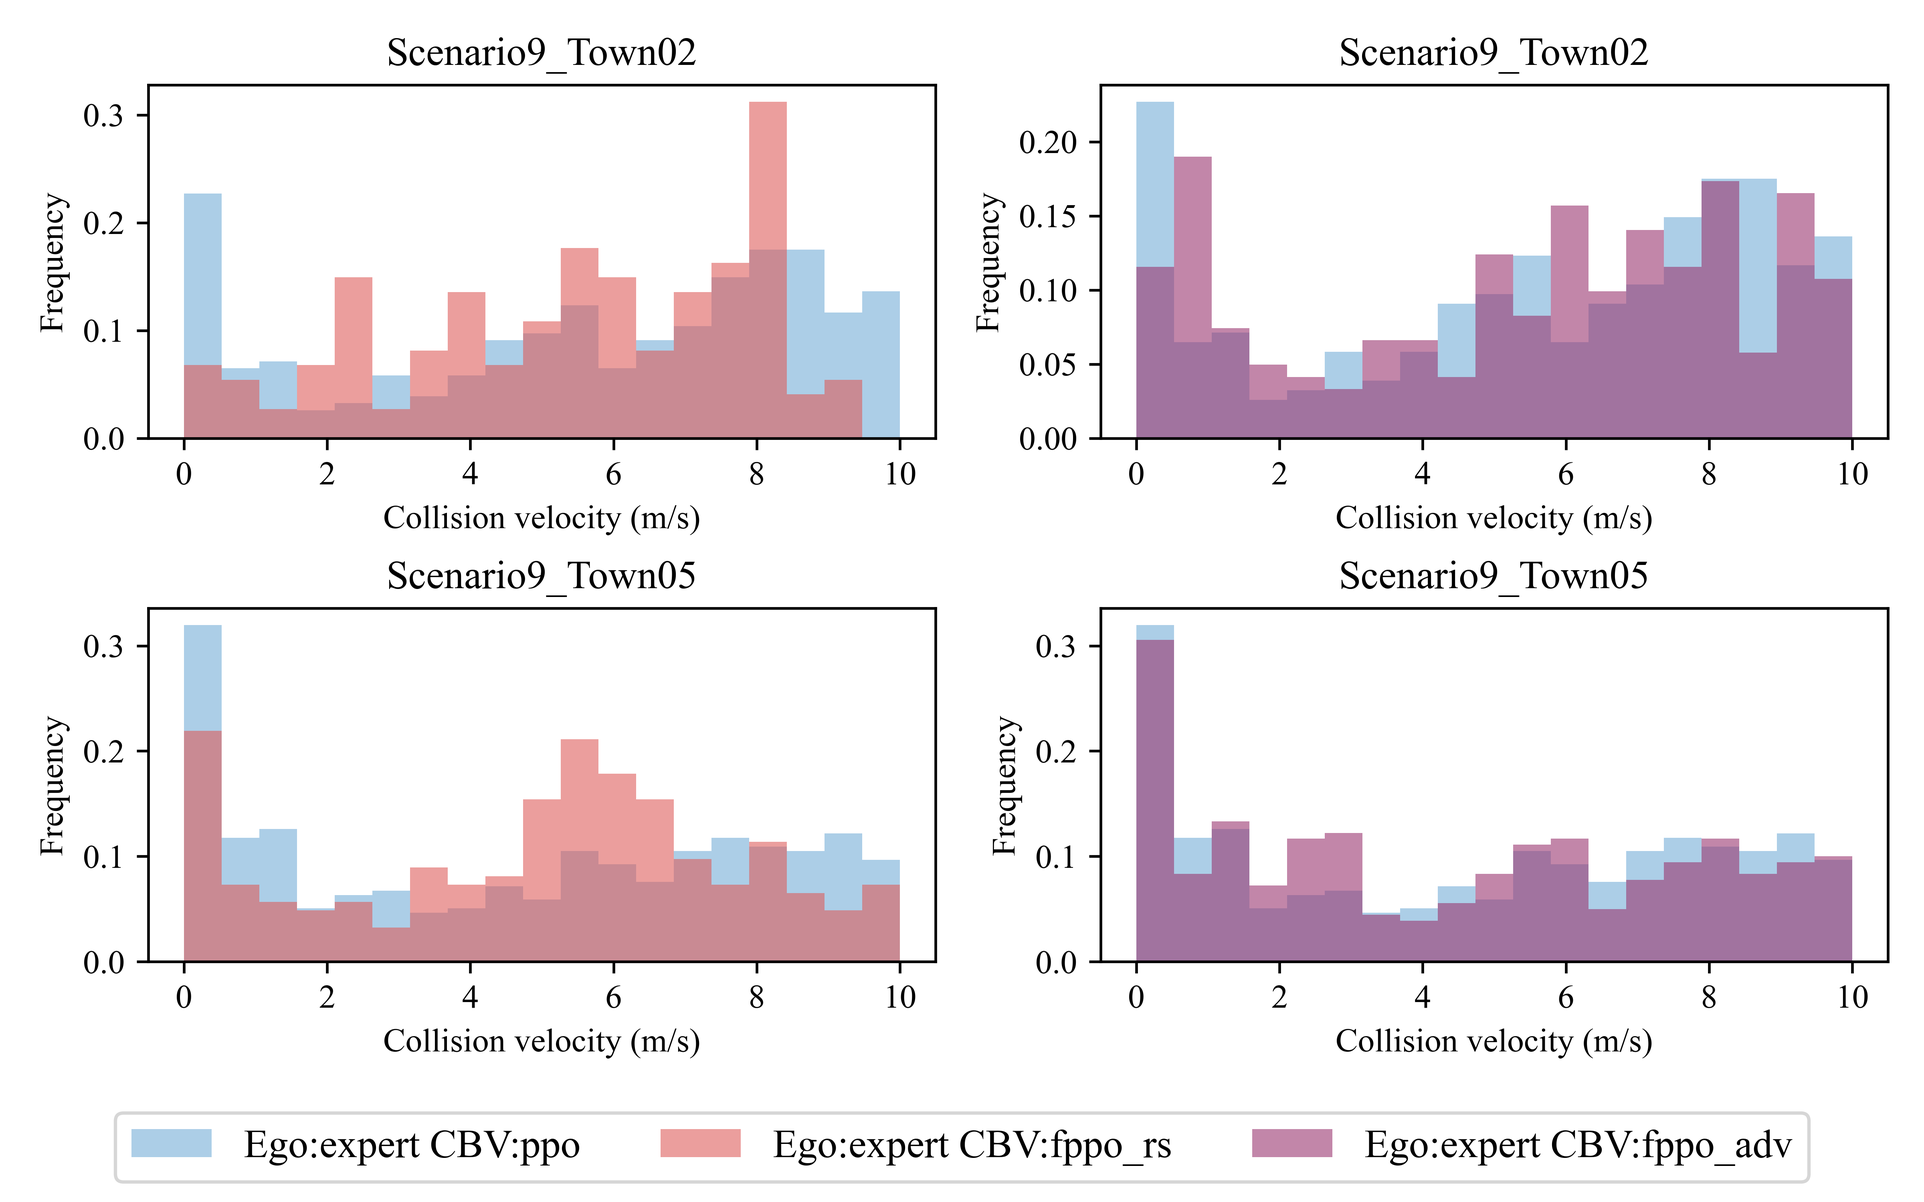
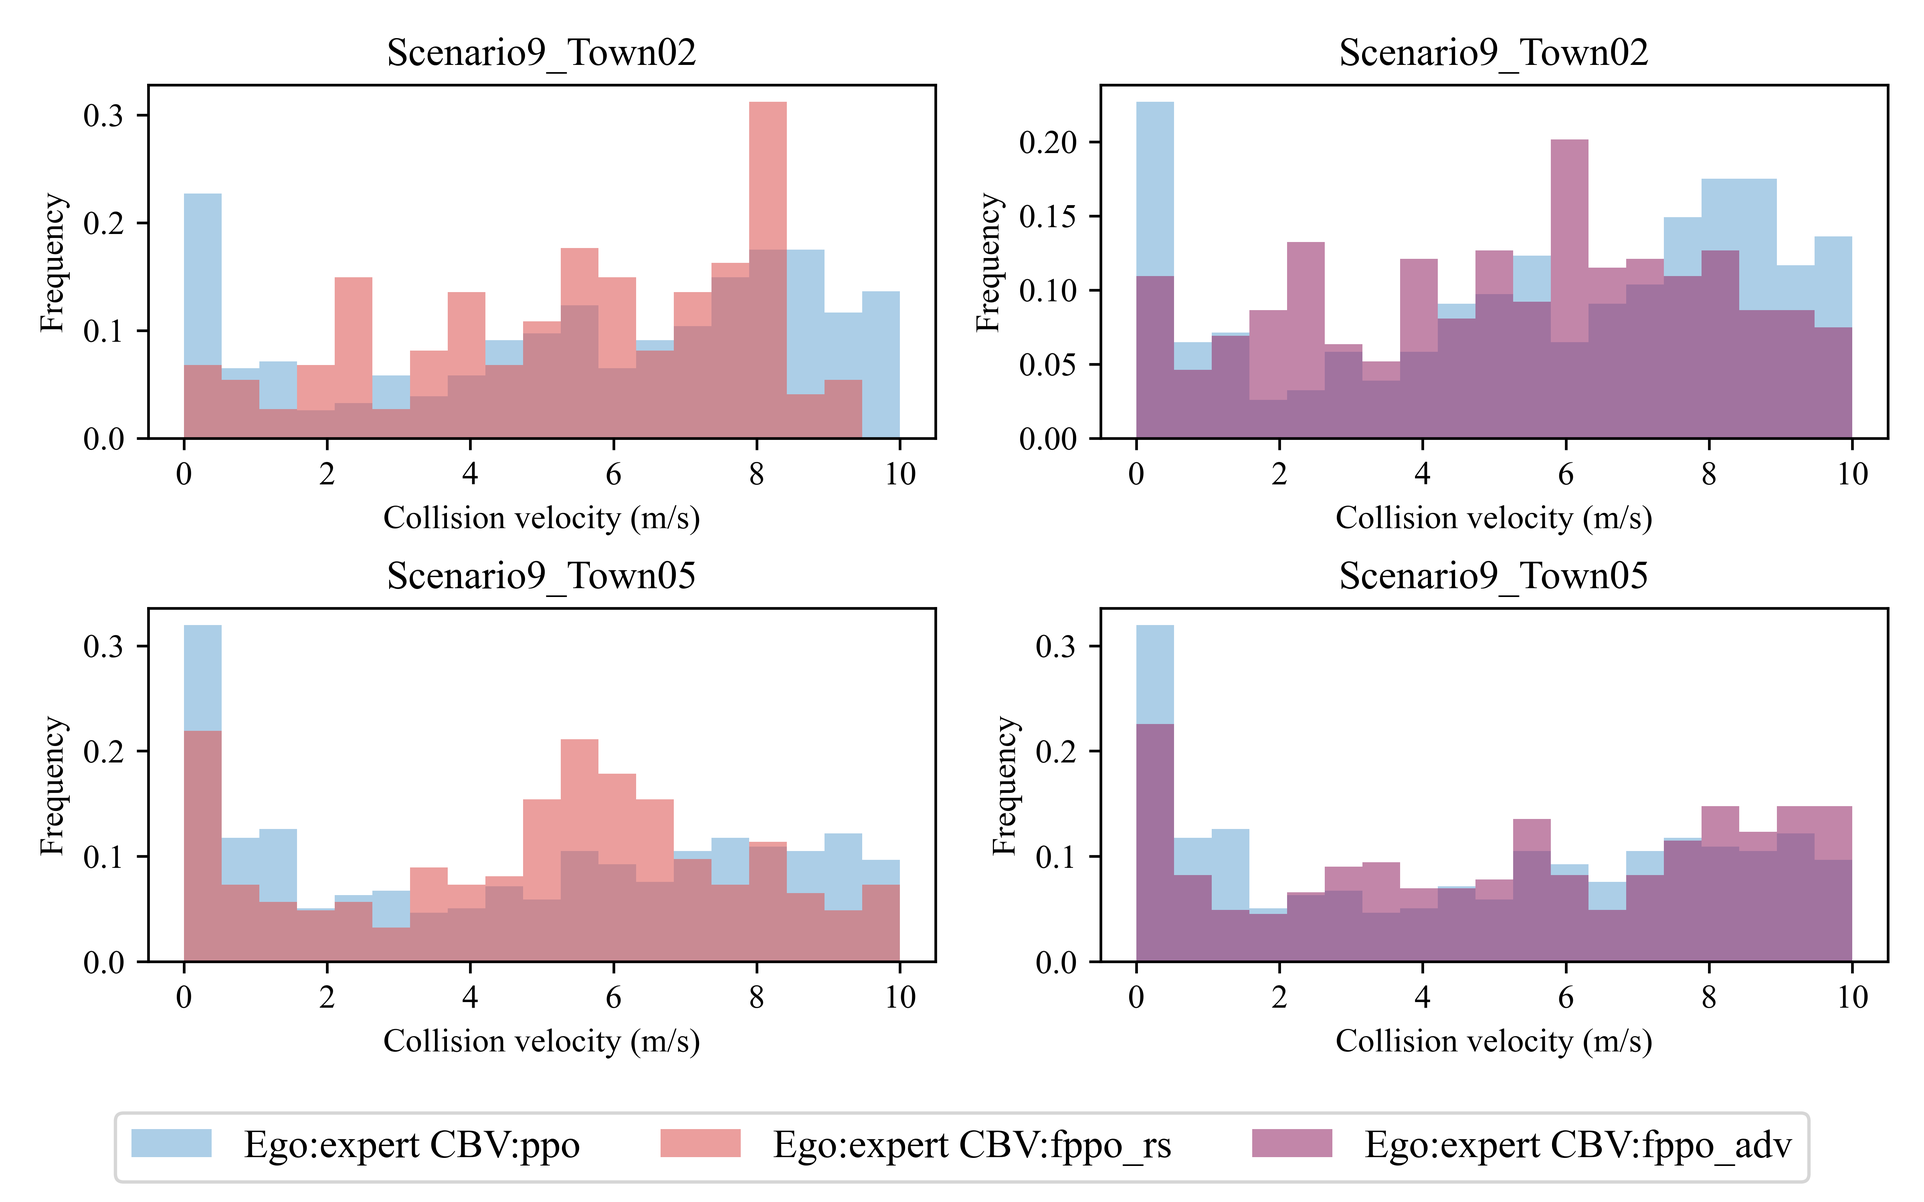
fix CarlaDataProvider random seed bug and update fppo_adv to only norm non-zero fea-advs

diff --git a/safebench/gym_carla/rollout_buffer.py b/safebench/gym_carla/rollout_buffer.py
@@ -89,11 +89,15 @@ class RolloutBuffer:
             if self.use_feasibility:
                 self.buffer_ego_actions = np.zeros((self.buffer_capacity, self.feasibility_action_dim), dtype=np.float32)
                 self.buffer_closest_CBV_flag = np.zeros(self.buffer_capacity, dtype=np.float32)
+                self.buffer_next_closest_CBV_flag = np.zeros(self.buffer_capacity, dtype=np.float32)
                 self.buffer_ego_min_dis = np.zeros(self.buffer_capacity, dtype=np.float32)
                 self.buffer_next_ego_min_dis = np.zeros(self.buffer_capacity, dtype=np.float32)
                 self.buffer_ego_obs = np.zeros((self.buffer_capacity, *self.feasibility_obs_shape), dtype=np.float32)
                 self.buffer_ego_next_obs = np.zeros((self.buffer_capacity, *self.feasibility_obs_shape), dtype=np.float32)
-                self.temp_buffer.update({'ego_actions': {}, 'ego_obs': {}, 'ego_next_obs': {}, 'closest_CBV_flag': {}, 'ego_min_dis': {}, 'next_ego_min_dis': {}})
+                self.temp_buffer.update({
+                    'ego_actions': {}, 'ego_obs': {}, 'ego_next_obs': {},
+                    'closest_CBV_flag': {}, 'next_closest_CBV_flag': {},
+                    'ego_min_dis': {}, 'next_ego_min_dis': {}})
         elif self.mode == 'train_agent':
             self.agent_pos = [0] * self.num_scenario
             self.agent_full = [False] * self.num_scenario
@@ -121,7 +125,8 @@ class RolloutBuffer:
         # the processed data for normal scenario training
         processed_actions, processed_log_probs, processed_obs, processed_next_obs, processed_rewards, processed_dones, processed_terminated = [], [], [], [], [], [], []
         # the processed data for feasibility
-        processed_ego_actions, processed_ego_obs, processed_ego_next_obs, processed_closest_CBV_flag, processed_ego_min_dis, processed_next_ego_min_dis = [], [], [], [], [], []
+        processed_ego_actions, processed_ego_obs, processed_ego_next_obs = [], [], []
+        processed_closest_CBV_flag, processed_next_closest_CBV_flag, processed_ego_min_dis, processed_next_ego_min_dis = [], [], [], []
         # process the ego actions
         if self.ego_onpolicy:
             all_ego_actions, _ = data_list[0]  # ego actions are in datalist[0]
@@ -135,7 +140,7 @@ class RolloutBuffer:
         # Traverse all the step data in all scenarios
         for ego_action, actions, log_probs, infos, next_infos in zip(all_ego_actions, all_scenario_actions, all_scenario_log_probs, additional_dict[0], additional_dict[1]):
             assert len(actions) == len(next_infos['CBVs_obs']) == len(infos['CBVs_obs']) \
-                == len(next_infos['CBVs_reward']) == len(next_infos['CBVs_truncated']), "length of the trajectory should be the same"
+                   == len(next_infos['CBVs_reward']) == len(next_infos['CBVs_truncated']), "length of the trajectory should be the same"
             # if learnable ego agent, need to process the action
             if self.use_feasibility and self.ego_learnable:
                 ego_action = process_ego_action(ego_action, acc_range=[-3.0, 3.0], steering_range=[-0.3, 0.3])
@@ -156,6 +161,7 @@ class RolloutBuffer:
                         self.temp_buffer['ego_next_obs'][CBV_id] = []
                         self.temp_buffer['ego_actions'][CBV_id] = []
                         self.temp_buffer['closest_CBV_flag'][CBV_id] = []
+                        self.temp_buffer['next_closest_CBV_flag'][CBV_id] = []
                         self.temp_buffer['ego_min_dis'][CBV_id] = []
                         self.temp_buffer['next_ego_min_dis'][CBV_id] = []
 
@@ -170,6 +176,7 @@ class RolloutBuffer:
                     self.temp_buffer['ego_actions'][CBV_id].append(ego_action)
                     self.temp_buffer['ego_next_obs'][CBV_id].append(next_infos['ego_obs'])
                     self.temp_buffer['closest_CBV_flag'][CBV_id].append(infos['closest_CBV_flag'][CBV_id])
+                    self.temp_buffer['next_closest_CBV_flag'][CBV_id].append(next_infos['closest_CBV_flag'][CBV_id])
                     self.temp_buffer['ego_min_dis'][CBV_id].append(infos['ego_min_dis'])
                     self.temp_buffer['next_ego_min_dis'][CBV_id].append(next_infos['ego_min_dis'])
 
@@ -189,6 +196,7 @@ class RolloutBuffer:
                         processed_ego_obs.extend(self.temp_buffer['ego_obs'].pop(CBV_id))
                         processed_ego_next_obs.extend(self.temp_buffer['ego_next_obs'].pop(CBV_id))
                         processed_closest_CBV_flag.extend(self.temp_buffer['closest_CBV_flag'].pop(CBV_id))
+                        processed_next_closest_CBV_flag.extend(self.temp_buffer['next_closest_CBV_flag'].pop(CBV_id))
                         processed_ego_min_dis.extend(self.temp_buffer['ego_min_dis'].pop(CBV_id))
                         processed_next_ego_min_dis.extend(self.temp_buffer['next_ego_min_dis'].pop(CBV_id))
                 else:
@@ -196,7 +204,7 @@ class RolloutBuffer:
                     self.temp_buffer['terminated'][CBV_id].append(False)
 
         return processed_actions, processed_log_probs, processed_obs, processed_next_obs, processed_rewards, processed_dones, processed_terminated, \
-            processed_ego_actions, processed_ego_obs, processed_ego_next_obs, processed_closest_CBV_flag, processed_ego_min_dis, processed_next_ego_min_dis
+            processed_ego_actions, processed_ego_obs, processed_ego_next_obs, processed_closest_CBV_flag, processed_next_closest_CBV_flag, processed_ego_min_dis, processed_next_ego_min_dis
 
     def store(self, data_list, additional_dict):
         """
@@ -205,8 +213,8 @@ class RolloutBuffer:
         """
         # store for scenario training
         if self.mode == 'train_scenario':
-            scenario_actions, scenario_log_probs, obs, next_obs, rewards, dones, terminated,\
-                ego_actions, ego_obs, ego_next_obs, closest_CBV_flag, ego_min_dis, next_ego_min_dis = self.process_CBV_data(data_list, additional_dict)
+            (scenario_actions, scenario_log_probs, obs, next_obs, rewards, dones, terminated, ego_actions, ego_obs, ego_next_obs,
+             closest_CBV_flag, next_closest_CBV_flag, ego_min_dis, next_ego_min_dis) = self.process_CBV_data(data_list, additional_dict)
 
             length = len(dones)
             if length > 10:  # remove the too short CBV trajectory
@@ -226,6 +234,7 @@ class RolloutBuffer:
                                 self.buffer_ego_obs[self.scenario_pos] = np.array(ego_obs[i])
                                 self.buffer_ego_next_obs[self.scenario_pos] = np.array(ego_next_obs[i])
                                 self.buffer_closest_CBV_flag[self.scenario_pos] = np.array(closest_CBV_flag[i])
+                                self.buffer_next_closest_CBV_flag[self.scenario_pos] = np.array(next_closest_CBV_flag[i])
                                 self.buffer_ego_min_dis[self.scenario_pos] = np.array(ego_min_dis[i])
                                 self.buffer_next_ego_min_dis[self.scenario_pos] = np.array(next_ego_min_dis[i])
                             self.scenario_pos += 1
@@ -234,18 +243,19 @@ class RolloutBuffer:
                     self.scenario_full = True
                 else:
                     # the buffer still can hold the whole trajectory
-                    self.buffer_actions[self.scenario_pos:self.scenario_pos+length, :] = np.array(scenario_actions)
-                    self.buffer_log_probs[self.scenario_pos:self.scenario_pos+length] = np.array(scenario_log_probs)
-                    self.buffer_obs[self.scenario_pos:self.scenario_pos+length, :] = np.array(obs)  # CBV_obs
-                    self.buffer_next_obs[self.scenario_pos:self.scenario_pos+length, :] = np.array(next_obs)  # CBV next obs from next info
-                    self.buffer_rewards[self.scenario_pos:self.scenario_pos+length] = np.array(rewards)  # CBV reward
-                    self.buffer_dones[self.scenario_pos:self.scenario_pos+length] = np.array(dones)
-                    self.buffer_terminated[self.scenario_pos:self.scenario_pos+length] = np.array(terminated)
+                    self.buffer_actions[self.scenario_pos:self.scenario_pos + length, :] = np.array(scenario_actions)
+                    self.buffer_log_probs[self.scenario_pos:self.scenario_pos + length] = np.array(scenario_log_probs)
+                    self.buffer_obs[self.scenario_pos:self.scenario_pos + length, :] = np.array(obs)  # CBV_obs
+                    self.buffer_next_obs[self.scenario_pos:self.scenario_pos + length, :] = np.array(next_obs)  # CBV next obs from next info
+                    self.buffer_rewards[self.scenario_pos:self.scenario_pos + length] = np.array(rewards)  # CBV reward
+                    self.buffer_dones[self.scenario_pos:self.scenario_pos + length] = np.array(dones)
+                    self.buffer_terminated[self.scenario_pos:self.scenario_pos + length] = np.array(terminated)
                     if self.use_feasibility:
                         self.buffer_ego_obs[self.scenario_pos:self.scenario_pos + length] = np.array(ego_obs)
                         self.buffer_ego_next_obs[self.scenario_pos:self.scenario_pos + length] = np.array(ego_next_obs)
                         self.buffer_ego_actions[self.scenario_pos:self.scenario_pos + length] = np.array(ego_actions)
                         self.buffer_closest_CBV_flag[self.scenario_pos:self.scenario_pos + length] = np.array(closest_CBV_flag)
+                        self.buffer_next_closest_CBV_flag[self.scenario_pos:self.scenario_pos + length] = np.array(next_closest_CBV_flag)
                         self.buffer_ego_min_dis[self.scenario_pos:self.scenario_pos + length] = np.array(ego_min_dis)
                         self.buffer_next_ego_min_dis[self.scenario_pos:self.scenario_pos + length] = np.array(next_ego_min_dis)
                     self.scenario_pos += length
@@ -263,7 +273,8 @@ class RolloutBuffer:
             all_next_infos = additional_dict[1]
 
             assert len(all_agent_actions) == len(all_obs) == len(all_next_obs) == len(all_rewards) == len(all_dones), "the length of trajectory should be the same"
-            for ego_actions, ego_log_probs, obs, next_obs, rewards, dones, next_infos in zip(all_agent_actions, all_agent_log_probs, all_obs, all_next_obs, all_rewards, all_dones, all_next_infos):
+            for ego_actions, ego_log_probs, obs, next_obs, rewards, dones, next_infos in zip(all_agent_actions, all_agent_log_probs, all_obs, all_next_obs, all_rewards, all_dones,
+                                                                                             all_next_infos):
                 scenario_id = next_infos['scenario_id'] if self.store_scenario_id is None else self.store_scenario_id
                 if not self.agent_full[scenario_id]:
                     self.buffer_actions[self.agent_pos[scenario_id], scenario_id, :] = np.array(ego_actions)
@@ -339,6 +350,7 @@ class RolloutBuffer:
                     'ego_next_obs': self.buffer_ego_next_obs[:upper_bound],
                     'ego_actions': self.buffer_ego_actions[:upper_bound],
                     'closest_CBV_flag': self.buffer_closest_CBV_flag[:upper_bound],
+                    'next_closest_CBV_flag': self.buffer_next_closest_CBV_flag[:upper_bound],
                     'ego_min_dis': self.buffer_ego_min_dis[:upper_bound],
                     'next_ego_min_dis': self.buffer_next_ego_min_dis[:upper_bound]
                 })
@@ -352,12 +364,12 @@ class RolloutBuffer:
             dones = np.zeros(self.buffer_len, dtype=np.float32)
             for scenario_id in range(self.num_scenario):
                 upper_bound = self.buffer_capacity // 2 if self.agent_full[scenario_id] else self.agent_pos[scenario_id]
-                actions[index:index+upper_bound] = self.buffer_actions[:upper_bound, scenario_id, :]
-                log_probs[index:index+upper_bound] = self.buffer_log_probs[:upper_bound, scenario_id]
-                obs[index:index+upper_bound, ...] = self.buffer_obs[:upper_bound, scenario_id, ...]
-                next_obs[index:index+upper_bound, ...] = self.buffer_next_obs[:upper_bound, scenario_id, ...]
-                rewards[index:index+upper_bound] = self.buffer_rewards[:upper_bound, scenario_id]
-                dones[index:index+upper_bound] = self.buffer_dones[:upper_bound, scenario_id]
+                actions[index:index + upper_bound] = self.buffer_actions[:upper_bound, scenario_id, :]
+                log_probs[index:index + upper_bound] = self.buffer_log_probs[:upper_bound, scenario_id]
+                obs[index:index + upper_bound, ...] = self.buffer_obs[:upper_bound, scenario_id, ...]
+                next_obs[index:index + upper_bound, ...] = self.buffer_next_obs[:upper_bound, scenario_id, ...]
+                rewards[index:index + upper_bound] = self.buffer_rewards[:upper_bound, scenario_id]
+                dones[index:index + upper_bound] = self.buffer_dones[:upper_bound, scenario_id]
                 index += upper_bound
 
             batch = {
@@ -394,12 +406,12 @@ class RolloutBuffer:
 
         for scenario_id in range(self.num_scenario):
             upper_bound = self.buffer_capacity // 2 if self.feasibility_full[scenario_id] else self.feasibility_pos[scenario_id]
-            actions[index:index+upper_bound] = self.buffer_actions[:upper_bound, scenario_id, :]
-            obs[index:index+upper_bound, ...] = self.buffer_obs[:upper_bound, scenario_id, ...]
-            next_obs[index:index+upper_bound, ...] = self.buffer_next_obs[:upper_bound, scenario_id, ...]
-            ego_min_dis[index:index+upper_bound] = self.buffer_ego_min_dis[:upper_bound, scenario_id]
-            ego_collide[index:index+upper_bound] = self.buffer_ego_collide[:upper_bound, scenario_id]
-            dones[index:index+upper_bound] = self.buffer_dones[:upper_bound, scenario_id]
+            actions[index:index + upper_bound] = self.buffer_actions[:upper_bound, scenario_id, :]
+            obs[index:index + upper_bound, ...] = self.buffer_obs[:upper_bound, scenario_id, ...]
+            next_obs[index:index + upper_bound, ...] = self.buffer_next_obs[:upper_bound, scenario_id, ...]
+            ego_min_dis[index:index + upper_bound] = self.buffer_ego_min_dis[:upper_bound, scenario_id]
+            ego_collide[index:index + upper_bound] = self.buffer_ego_collide[:upper_bound, scenario_id]
+            dones[index:index + upper_bound] = self.buffer_dones[:upper_bound, scenario_id]
             index += upper_bound
 
         with h5py.File(file_path, 'w') as file:
@@ -411,5 +423,3 @@ class RolloutBuffer:
             file.create_dataset('ego_min_dis', shape=self.buffer_len, dtype=np.float32, data=ego_min_dis, compression='gzip')
             file.create_dataset('ego_collide', shape=self.buffer_len, dtype=np.float32, data=ego_collide, compression='gzip')
             file.create_dataset('dones', shape=self.buffer_len, dtype=np.float32, data=dones, compression='gzip')
-
-

diff --git a/safebench/scenario/scenario_policy/rl/fppo_adv.py b/safebench/scenario/scenario_policy/rl/fppo_adv.py
@@ -54,20 +54,20 @@ class FPPOAdv(PPO):
             advantages[t] = advantage = deltas[t] + undones[t] * self.gamma * self.lambda_gae_adv * advantage
         return advantages
 
-    def get_feasibility_Vs(self, closest_CBV_flag, ego_obs, ego_next_obs):
+    def get_feasibility_Vs(self, closest_CBV_flag, next_closest_CBV_flag, ego_obs, ego_next_obs):
         feasibility_V = torch.full_like(closest_CBV_flag, -1.0)
         feasibility_next_V = torch.full_like(closest_CBV_flag, -1.0)
         # only consider the CBV is the closest BV from ego
         indices = torch.where(closest_CBV_flag > 0.5)[0]
+        next_indices = torch.where(next_closest_CBV_flag > 0.5)[0]
+
         if indices.numel() > 0:
-            obs_inputs = ego_obs[indices]
-            next_obs_inputs = ego_next_obs[indices]
-            # calculate the feasibility_V and current state and next state at the same time
-            feasibility = self.feability_policy.get_feasibility_Vs(torch.cat((obs_inputs, next_obs_inputs), dim=0))
-            # the length of each part
-            split_size = len(obs_inputs)
-            feasibility_V[indices] = feasibility[:split_size].squeeze()
-            feasibility_next_V[indices] = feasibility[split_size:].squeeze()
+            # calculate the feasibility_V at the current state
+            feasibility_V[indices] = self.feability_policy.get_feasibility_Vs(ego_obs[indices])
+        if next_indices.numel() > 0:
+            # calculate the feasibility_V at the next state
+            feasibility_next_V[next_indices] = self.feability_policy.get_feasibility_Vs(ego_next_obs[next_indices])
+
         return [feasibility_V, feasibility_next_V]
 
     def get_surrogate_advantages(self, feasibility_advantages, reward_advantages, feasibility_next_V):
@@ -75,6 +75,15 @@ class FPPOAdv(PPO):
         constraint_unsafe_condition = torch.where(feasibility_next_V > 0.0, 1.0, 0.0)
         surrogate_advantages = constraint_safe_condition * reward_advantages + constraint_unsafe_condition * feasibility_advantages
         return surrogate_advantages
+
+    def norm_feasibility_advantages(self, feasibility_advantages):
+        nonzero_indices = torch.nonzero(feasibility_advantages != 0).squeeze()
+
+        mean = feasibility_advantages[nonzero_indices].mean()
+        std = feasibility_advantages[nonzero_indices].std(dim=0)
+
+        feasibility_advantages[nonzero_indices] = (feasibility_advantages[nonzero_indices] - mean) / (std + 1e-5)
+        return feasibility_advantages
 
     def train(self, buffer, writer, e_i):
         with torch.no_grad():
@@ -93,11 +102,12 @@ class FPPOAdv(PPO):
             buffer_size = states.shape[0]
             # feasibility
             closest_CBV_flag = CUDA(torch.FloatTensor(batch['closest_CBV_flag']))
+            next_closest_CBV_flag = CUDA(torch.FloatTensor(batch['next_closest_CBV_flag']))
             ego_obs = CUDA(torch.FloatTensor(batch['ego_obs']))
             ego_next_obs = CUDA(torch.FloatTensor(batch['ego_next_obs']))
             ego_min_dis = CUDA(torch.FloatTensor(batch['ego_min_dis']))
             next_ego_min_dis = CUDA(torch.FloatTensor(batch['next_ego_min_dis']))
-            feasibility_V, feasibility_next_V = self.get_feasibility_Vs(closest_CBV_flag, ego_obs, ego_next_obs)
+            feasibility_V, feasibility_next_V = self.get_feasibility_Vs(closest_CBV_flag, next_closest_CBV_flag, ego_obs, ego_next_obs)
 
             # the values of the reward
             values = self.value(states)
@@ -106,15 +116,16 @@ class FPPOAdv(PPO):
             reward_advantages = self.get_advantages_GAE(rewards, undones, values, next_values, unterminated)
 
             reward_sums = reward_advantages + values
-            del rewards, values, next_values, unterminated, closest_CBV_flag, ego_obs
+            del rewards, values, next_values, unterminated, closest_CBV_flag, ego_obs, next_closest_CBV_flag
 
             # the advantage of the feasibility
             feasibility_advantages = self.get_feasibility_advantage_GAE(feasibility_V, feasibility_next_V, ego_min_dis, next_ego_min_dis, undones)
 
             # norm the reward advantage
             reward_advantages = (reward_advantages - reward_advantages.mean()) / (reward_advantages.std(dim=0) + 1e-5)
+
             # norm the feasibility advantage
-            feasibility_advantages = (feasibility_advantages - feasibility_advantages.mean()) / (feasibility_advantages.std(dim=0) + 1e-5)
+            feasibility_advantages = self.norm_feasibility_advantages(feasibility_advantages)
 
             # the surrogate_advantages under safe conditions
             surrogate_advantages = self.get_surrogate_advantages(feasibility_advantages, reward_advantages, feasibility_next_V)

diff --git a/safebench/scenario/scenario_manager/carla_data_provider.py b/safebench/scenario/scenario_manager/carla_data_provider.py
@@ -206,7 +206,8 @@ class CarlaDataProvider(object):
         """
             set random seed
         """
-        CarlaDataProvider._rng = random_seed
+        CarlaDataProvider._random_seed = random_seed
+        CarlaDataProvider._rng = random.RandomState(random_seed)
 
     @staticmethod
     def is_sync_mode():
